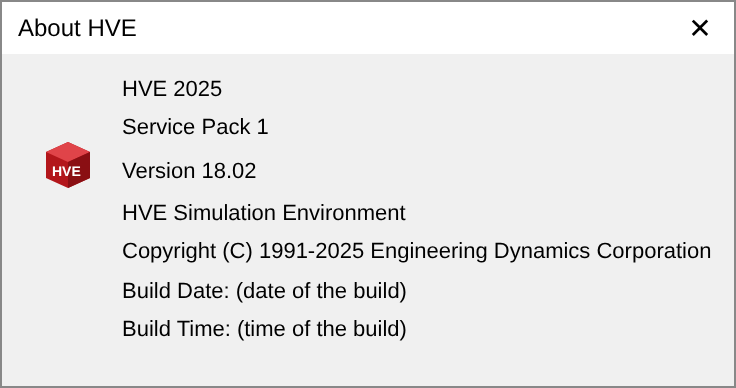
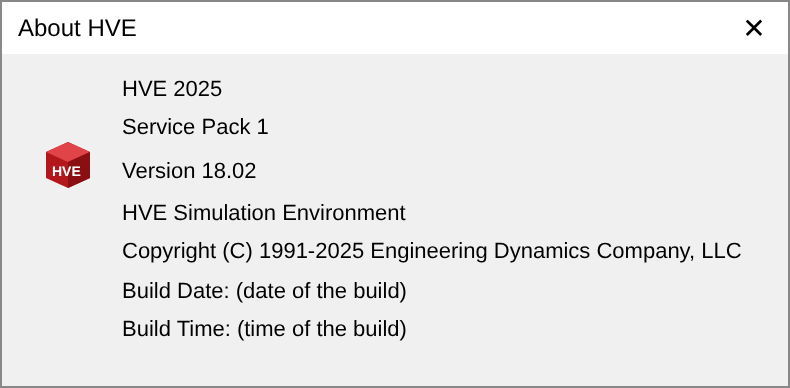
Sync manuals from HVEsource rel0merge: About figure with the current company name
Claude-Session: https://claude.ai/code/session_01NUMgqv5KX2T2K54mjEx4xH

diff --git a/docs/manuals/hve-users/02-menu-reference/07-help-menu.md b/docs/manuals/hve-users/02-menu-reference/07-help-menu.md
@@ -119,7 +119,7 @@ The *Reset Defaults* button returns the Key Results windows to their default scr
 
 > **NOTE:** You should have this information available when you call for Technical Support.
 
-![Figure 7-4](../images/about-hve-current.png){ width="368" }
+![Figure 7-4](../images/about-hve-current.png){ width="395" }
 
 *Figure 7-4: The About HVE Dialog contains useful release information.*
 

diff --git a/docs/manuals/hve-users/01-overview/02c-how-to-use-hve.md b/docs/manuals/hve-users/01-overview/02c-how-to-use-hve.md
@@ -840,7 +840,7 @@ The About HVE dialog is shown in Figure 2-76.
 For more information about getting Help, refer to the Help Menu in the Menu
 Reference section of this manual.
 
-![Figure 2-76](../images/about-hve-current.png){ width="368" }
+![Figure 2-76](../images/about-hve-current.png){ width="395" }
 
 *Figure 2-76: The About HVE dialog.*
 
